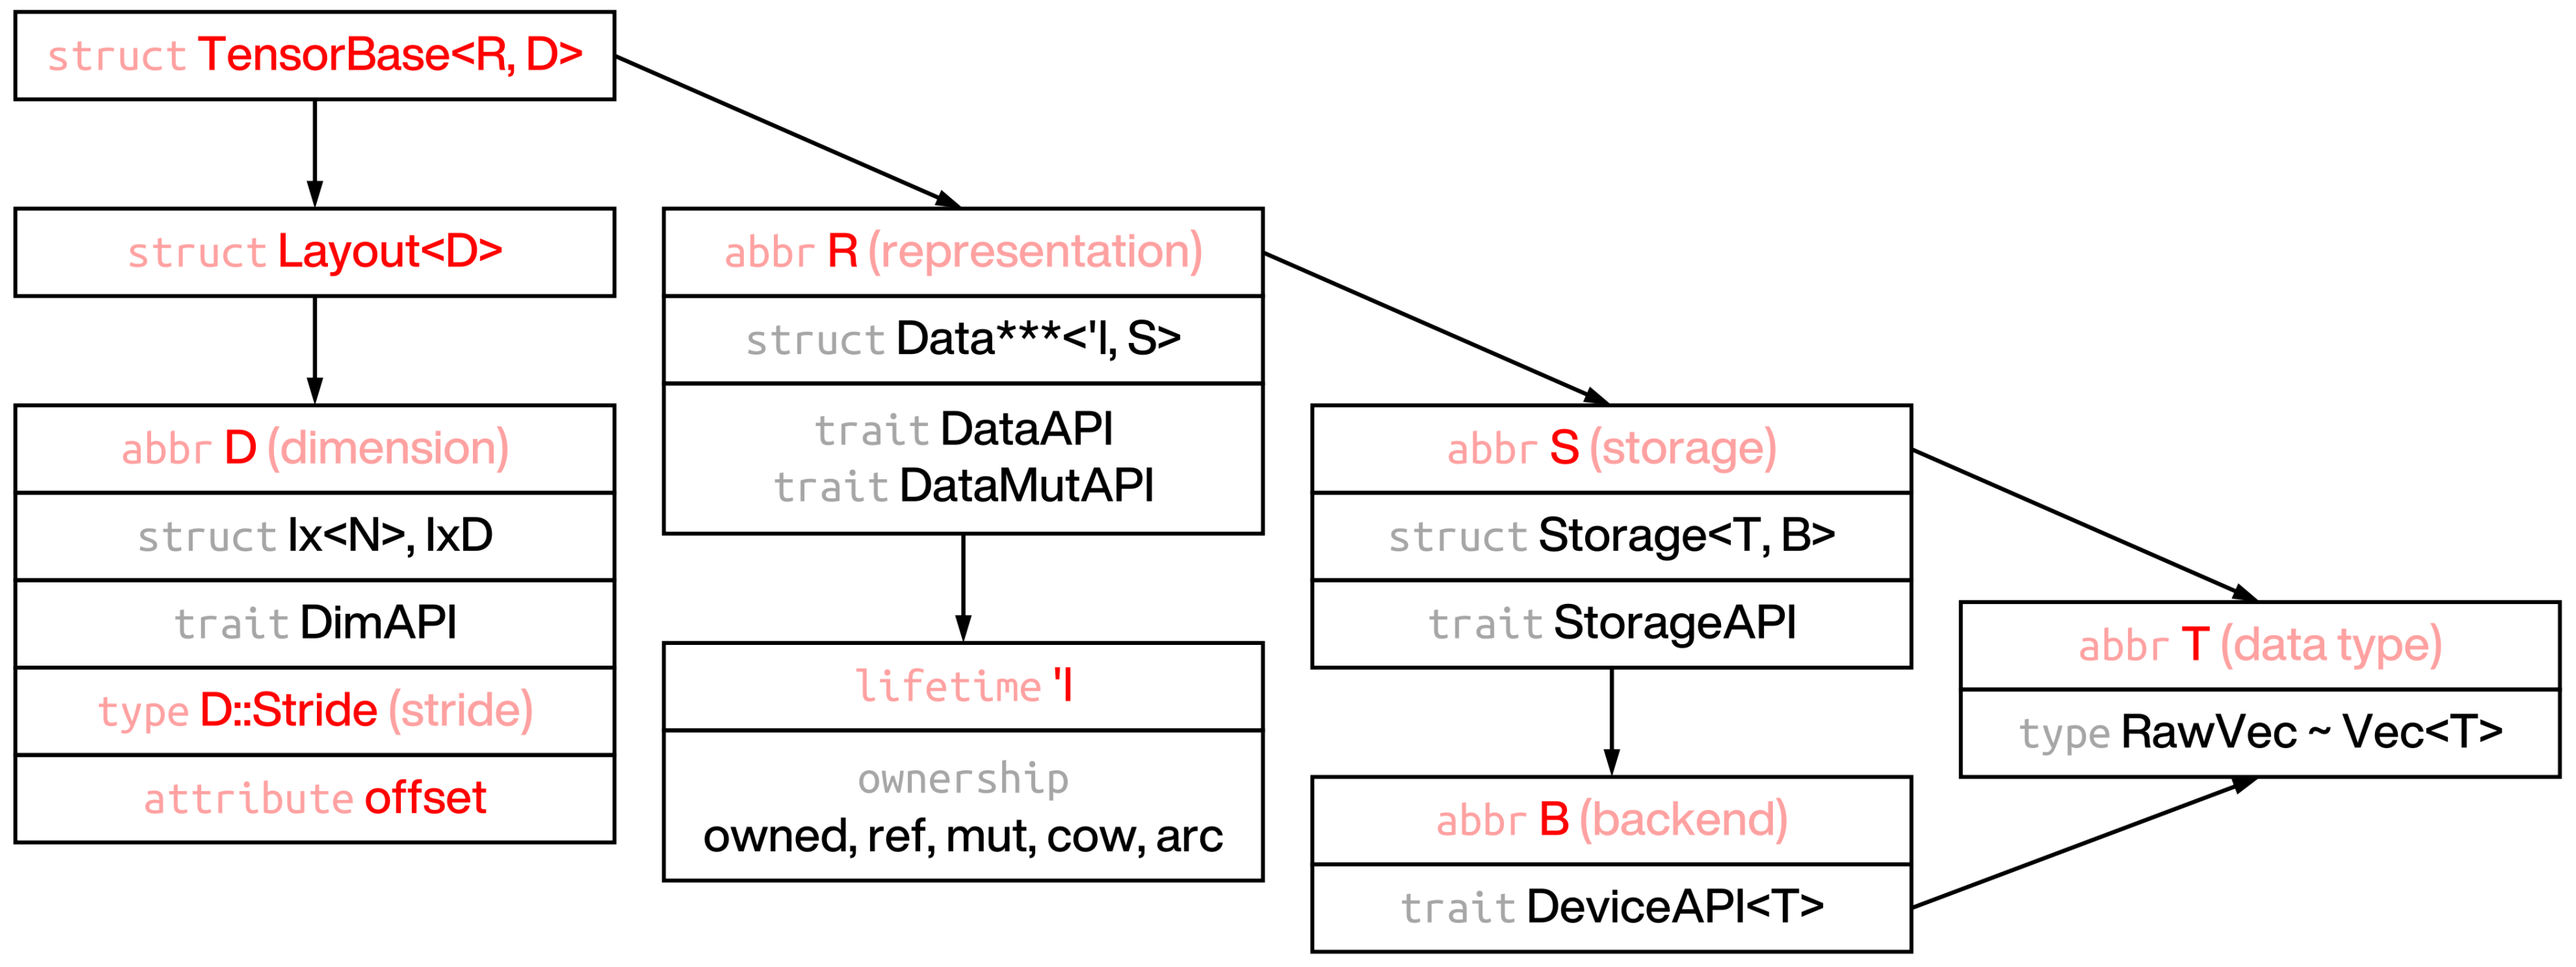
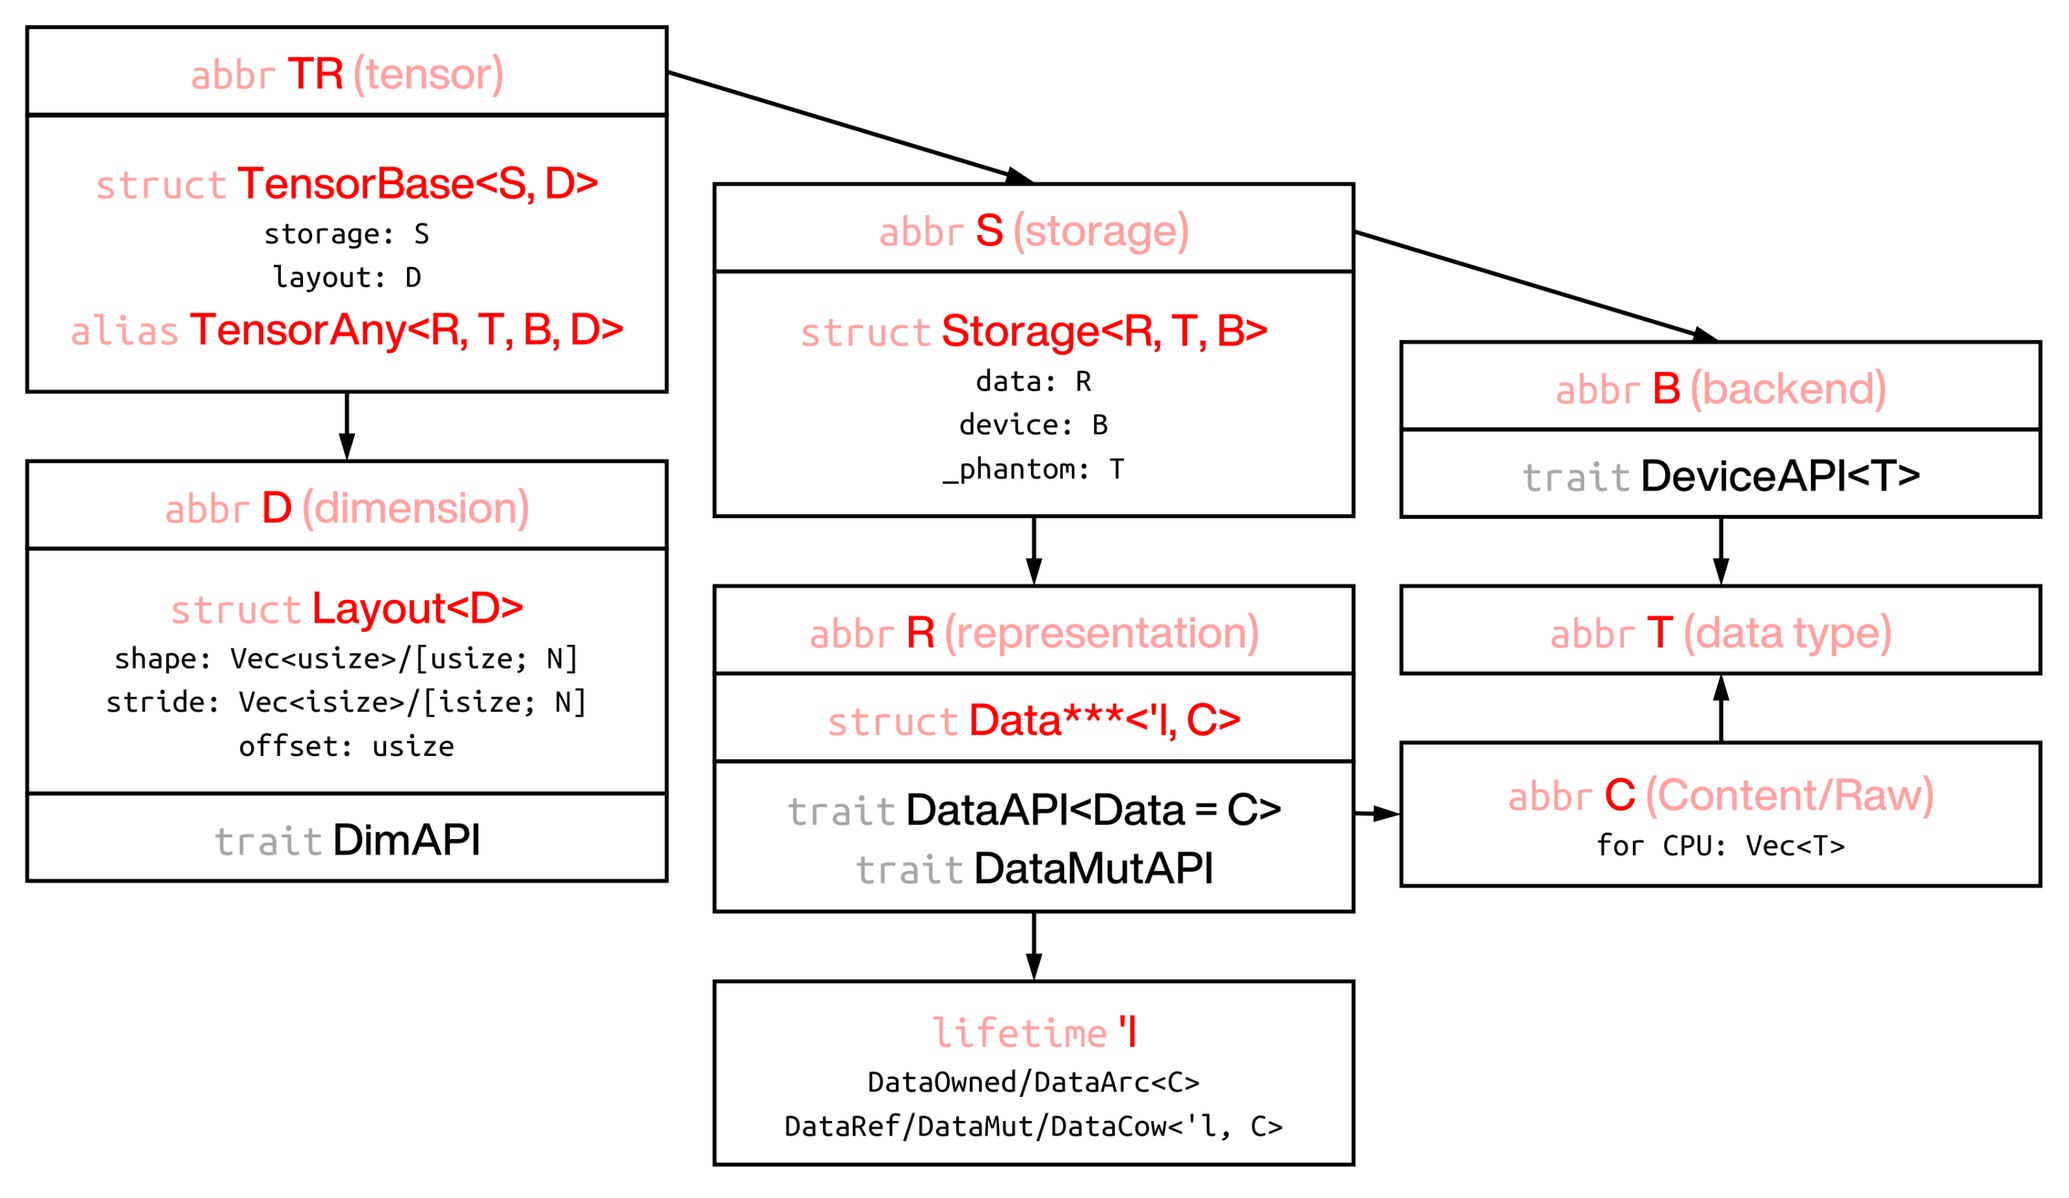
fix code after intensive refactor https://github.com/ajz34/rstsr/commit/9c29b40f8dea5ee687c3a849d9ee5436a5b776cd

diff --git a/listings/features-default/tests/tensor_creation.rs b/listings/features-default/tests/tensor_creation.rs
@@ -27,7 +27,7 @@ fn example_02() {
     // === Debug Tensor Print ===
     // [ 1 2 3 4 5]
     // DeviceFaer { base: DeviceCpuRayon { num_threads: 4 } }
-    // 1-Dim, contiguous: CcFf
+    // 1-Dim (dyn), contiguous: CcFf
     // shape: [5], stride: [1], offset: 0
     // Type: rstsr_core::tensorbase::TensorBase<rstsr_core::tensor::data::DataOwned<rstsr_core::storage::device::Storage<i32, rstsr_core::device_faer::device::DeviceFaer>>, [usize; 1]>
     // ANCHOR_END: example_02
@@ -87,13 +87,13 @@ fn example_05() {
     println!("{:?}", tensor);
 
     // check if pointer of vec and tensor's storage are the same
-    assert_eq!(vec.as_ptr(), tensor.storage().rawvec().as_ptr());
+    assert_eq!(vec.as_ptr(), tensor.storage().raw().as_ptr());
 
     // output:
     // === Debug Tensor Print ===
     // [ 1 2 3 4 5 6]
     // DeviceFaer { base: DeviceCpuRayon { num_threads: 0 } }
-    // 1-Dim, contiguous: CcFf
+    // 1-Dim (dyn), contiguous: CcFf
     // shape: [6], stride: [1], offset: 0
     // Type: rstsr_core::tensorbase::TensorBase<rstsr_core::tensor::data::DataRef<rstsr_core::storage::device::Storage<i32, rstsr_core::device_faer::device::DeviceFaer>>, [usize; 1]>
     // ANCHOR_END: example_05
@@ -156,14 +156,14 @@ fn example_linspace() {
 fn example_eye() {
     // ANCHOR: example_eye
     let device = DeviceFaer::new(4);
-    let tensor: Tensor<f64, _> = rt::eye((3, &device));
+    let tensor: Tensor<f64> = rt::eye((3, &device));
     println!("{:}", tensor);
     // output:
     // [[ 1 0 0]
     //  [ 0 1 0]
     //  [ 0 0 1]]
 
-    let tensor: Tensor<f64, _> = rt::eye((3, 4, -1));
+    let tensor: Tensor<f64> = rt::eye((3, 4, -1));
     println!("{:}", tensor);
     // output:
     // [[ 0 0 0 0]
@@ -194,7 +194,7 @@ fn example_diag() {
 fn example_zeros_01() {
     // ANCHOR: example_zeros_01
     // generate tensor with default device
-    let tensor: Tensor<f64, _> = rt::zeros([2, 2, 3]); // Tensor<f64, Ix3>
+    let tensor: Tensor<f64> = rt::zeros([2, 2, 3]); // Tensor<f64, Ix3>
     println!("{:}", tensor);
     // output:
     // [[[ 0 0 0]
@@ -206,7 +206,7 @@ fn example_zeros_01() {
     // generate tensor with custom device
     // note: the third type annotation refers to device type, hence is required if not default device
     // Tensor<f64, Ix2, DeviceCpuSerial>
-    let tensor: Tensor<f64, _, _> = rt::zeros(([3, 4], &DeviceCpuSerial));
+    let tensor: Tensor<f64, _> = rt::zeros(([3, 4], &DeviceCpuSerial));
     println!("{:}", tensor);
     // output:
     // [[ 0 0 0 0]
@@ -219,12 +219,12 @@ fn example_zeros_01() {
 fn example_zeros_02() {
     // ANCHOR: example_zeros_02
     // generate tensor with c-contiguous
-    let tensor: Tensor<f64, _> = rt::zeros([2, 2, 3].c());
+    let tensor: Tensor<f64> = rt::zeros([2, 2, 3].c());
     println!("shape: {:?}, stride: {:?}", tensor.shape(), tensor.stride());
     // output: shape: [2, 2, 3], stride: [6, 3, 1]
 
     // generate tensor with f-contiguous
-    let tensor: Tensor<f64, _> = rt::zeros([2, 2, 3].f());
+    let tensor: Tensor<f64> = rt::zeros([2, 2, 3].f());
     println!("shape: {:?}, stride: {:?}", tensor.shape(), tensor.stride());
     // output: shape: [2, 2, 3], stride: [1, 2, 4]
     // ANCHOR_END: example_zeros_02
@@ -234,7 +234,7 @@ fn example_zeros_02() {
 fn example_zeros_03() {
     // ANCHOR: example_zeros_03
     // generate 0-D tensor
-    let mut a: Tensor<f64, _> = rt::zeros([]);
+    let mut a: Tensor<f64> = rt::zeros([]);
     println!("{:}", a);
     // output: 0
 
@@ -254,7 +254,7 @@ fn example_zeros_03() {
 fn example_empty() {
     // ANCHOR: example_empty
     // generate empty tensor with default device
-    let tensor: Tensor<i32, _> = unsafe { rt::empty([10, 10]) };
+    let tensor: Tensor<i32> = unsafe { rt::empty([10, 10]) };
     println!("{:?}", tensor);
     // ANCHOR_END: example_empty
 }

diff --git a/listings/features-default/tests/structure_and_ownership.rs b/listings/features-default/tests/structure_and_ownership.rs
@@ -5,13 +5,13 @@ fn example_tensor_ownership() {
     // ANCHOR: tensor_ownership
     // generate 1-D owned tensor
     let tensor = rt::arange(12);
-    let ptr_1 = tensor.rawvec().as_ptr();
+    let ptr_1 = tensor.raw().as_ptr();
 
     // this will give owned tensor with 2-D shape
     // since previous tensor is contiguous, this will not copy memory
     let mut tensor = tensor.into_shape([3, 4]);
     tensor += 1; // inplace operation
-    let ptr_2 = tensor.rawvec().as_ptr();
+    let ptr_2 = tensor.raw().as_ptr();
 
     // until now, memory has not been copied
     assert_eq!(ptr_1, ptr_2);
@@ -21,7 +21,7 @@ fn example_tensor_ownership() {
 
     // from view to owned tensor
     let tensor = tensor_view.into_owned();
-    let ptr_3 = tensor.rawvec().as_ptr();
+    let ptr_3 = tensor.raw().as_ptr();
 
     // now memory has been copied
     assert_ne!(ptr_2, ptr_3);
@@ -38,7 +38,7 @@ fn example_to_vec() {
     // matrix multiplication (gemv 2-D x 1-D case)
     let c = a % b;
     println!("{:?}", c);
-    let ptr_1 = c.rawvec().as_ptr();
+    let ptr_1 = c.raw().as_ptr();
 
     // convert to Vec<f64>
     let c = c.into_vec();
@@ -82,7 +82,7 @@ fn example_dim_conversion() {
     // fixed dimension
     let a = rt::arange(12).into_shape([3, 4]);
     println!("{:?}", a);
-    // output: 2-Dim, contiguous: Cc
+    // output: 2-Dim (dyn), contiguous: Cc
 
     // convert to dynamic dimension
     let a = a.into_dim::<IxD>(); // or a.into_dyn();

diff --git a/listings/features-default/tests/arithmetics_and_broadcasting.rs b/listings/features-default/tests/arithmetics_and_broadcasting.rs
@@ -191,7 +191,7 @@ fn example_memory_aspects() {
     // view clone is cheap, given tensor is large
     let a_view = a.view();
     let b_view = b.view();
-    let e = a_view.clone() * b_view.clone();
+    let e = a_view * b_view;
     // ANCHOR_END: memory_aspects_01
     println!("{:}", c);
     println!("{:}", d);
@@ -200,10 +200,10 @@ fn example_memory_aspects() {
     // ANCHOR: memory_aspects_02
     let a = rt::arange(5.0);
     let b = rt::arange(5.0) + 1.0;
-    let ptr_a = a.rawvec().as_ptr();
+    let ptr_a = a.raw().as_ptr();
     // if sure that `a` is not used anymore, pass `a` by value instead of reference
     let c = a + &b;
-    let ptr_c = c.rawvec().as_ptr();
+    let ptr_c = c.raw().as_ptr();
     // raw data of `a` is reused in `c`
     // similar to `a += &b; let c = a;`
     assert_eq!(ptr_a, ptr_c);

diff --git a/listings/features-default/tests/indexing.rs b/listings/features-default/tests/indexing.rs
@@ -191,7 +191,7 @@ fn example_ellipsis() {
 #[test]
 fn example_mixed_indexing() {
     // ANCHOR: example_mixed_indexing
-    let a: Tensor<f64, _> = rt::zeros([6, 7, 5, 9, 8]);
+    let a: Tensor<f64> = rt::zeros([6, 7, 5, 9, 8]);
 
     // mixed indexing
     let b = a.slice((slice!(-2, 1, -1), None, None, Ellipsis, 1, ..-2));

diff --git a/listings/features-default/tests/welcome.rs b/listings/features-default/tests/welcome.rs
@@ -14,7 +14,7 @@ fn welcome() {
     // print layout of the result
     println!("{:?}", c.layout());
     // output:
-    // 3-Dim, contiguous: Cc
+    // 3-Dim (dyn), contiguous: Cc
     // shape: [2, 4, 2], stride: [8, 2, 1], offset: 0
 
     // print the result

diff --git a/src/fundamentals/02-structure_and_ownership.md b/src/fundamentals/02-structure_and_ownership.md
@@ -11,33 +11,41 @@ In this section, we will try to show how RSTSR constructs tensor struct and diff
 ## 1. Tensor Structure
 
 RSTSR tensor learns a lot from rust crate `ndarray`.
-Structure and usage of RSTSR's `TensorBase` is similar to `ndarray`'s `ArrayBase`; however, they are different in some key points.
+Structure and usage of RSTSR's `TensorBase` is similar to `ndarray`'s `ArrayBase`; however, they are different in many key points.
 
 ![rstsr-basic-structure](../assets/rstsr-basic-structure.png)
 
-- Tensor is composed by data (how data is stored in memory bulk) and layout (how tensor is represented).
-- Layout is composed by shape (shape of tensor), stride (how each value is accessed from memory bulk), and offset (where the tensor starts)[^1].
+- Tensor is composed by `storage` (how data is stored in memory bulk) and `layout` (how tensor is represented).
+- Layout is composed by `shape` (shape of tensor), `stride` (how each value is accessed from memory bulk), and `offset` (where the tensor starts)[^1].
+- Storage is composed by `data` (data with lifetime) and `device` (computation and storage backend)[^2].
 - Data is combination of the actual memory storage with the lifetime annotation to it.
-  Currently, 5 ownership types are supported. The first two (owned and referenced) are the most important[^2].
-    - Owned (`Tensor<T, D, B>`)
-    - Referenced (`TensorView<'l, T, D, B>` or `TensorRef<'l, T, D, B>`)
-    - Mutablly referenced (`TensorViewMut<'l, T, D, B>` or `TensorMut<'l, T, D, B>`)
-    - Clone on write (not mutable enum of owned and referenced, `TensorCow<'l, T, D, B>`)
-    - Atomic reference counted (safe in threading, `TensorArc<T, D, B>`)
-- Storage is composed by raw memory (type `RawVec`) and backend (device)[^3]
-- The actual memory bulk will be stored as `Vec<T>` in CPU, and this can be configured by trait type `RawVec`[^4].
-      
+  Currently, 5 ownership types are supported. The first two (owned and referenced) are the most important[^3].
+    - Owned (`Tensor<T, B, D>`)
+    - Referenced (`TensorView<'l, T, B, D>` or `TensorRef<'l, T, B, D>`)
+    - Mutablly referenced (`TensorViewMut<'l, T, B, D>` or `TensorMut<'l, T, B, D>`)
+    - Clone on write (not mutable enum of owned and referenced, `TensorCow<'l, T, B, D>`)
+    - Atomic reference counted (safe in threading, `TensorArc<T, B, D>`)
+- The actual memory bulk will be stored as `Vec<T>` in CPU, and this can be configured by trait type `DeviceRawAPI<T>::Raw`[^4].
+
+Default generic types is applied to some structs or alias. For example, if `DeviceFaer` is the default device (which is enabled by crate feature `faer_as_default`), then
+```rust
+    let a: Tensor<f64> = rt::zeros([3, 4]);
+    // this refers to Tensor<f64, DeviceFaer, IxD>
+    // default device: DeviceFaer (rayon parallel with Faer matmul)
+    // default dimensionality: IxD (dynamic dimension)
+```
+
 [^1]: RSTSR is different to `ndarray` in struct construction.
       While `ndarray` stores shape and stride directly in `ArrayBase`, in RSTSR shape, stride and offset are stored in `Layout<D>`.
       Layout of tensor is meta data of tensor, and it can be detached from data of tensor.
 
-[^2]: In RSTSR, data is stored as variable or its reference, in safe rust.
-      This is different to `ndarray`, which stores pointer (with offset) and memory data (if owned) or phantom lifetime annotation (if referenced).
-
-[^3]: This distinguishes RSTSR and `ndarray`.
+[^2]: This distinguishes RSTSR and `ndarray`.
       We hope that RSTSR will become multi-backend framework in future.
       Currently, we have implemented serial CPU device (`DeviceCpuSerial`) and parallel CPU device with Faer matmul (`DeviceFaer`),
       showing the possiblity of more demanding heterogeneous programming within framework of RSTSR.
+
+[^3]: In RSTSR, data is stored as variable or its reference, in safe rust.
+      This is different to `ndarray`, which stores pointer (with offset) and memory data (if owned) or phantom lifetime annotation (if referenced).
 
 [^4]: This distinguishes RSTSR and `candle`.
       RSTSR allows external implementation of backends, hopefully allowing easy extending to other kind of devices, similar to `burn`.
@@ -50,25 +58,25 @@ Structure and usage of RSTSR's `TensorBase` is similar to `ndarray`'s `ArrayBase
 
 Different ownerships can be converted to each other. However, some conversion functions may have some costs (explicit memory copy).
 
-- `view` gives `TensorView<'l, T, D, B>`.
+- `view` gives `TensorView<'l, T, B, D>`.
     - This function will always not perform memory copy (of tensor data) in any cases. For this part, it is virtually zero-cost.
     - It will still perform clone of tensor layout, so still some overhead occurs. For large tensor, it is cheap.
-- `view_mut` gives `TensorMut<'l, T, D, B>`.
+- `view_mut` gives `TensorMut<'l, T, B, D>`.
     - In rust, either many const references or only one mutable reference is allowed.
       This is also true for `TensorView` as const reference and `TensorMut` as mutable reference.
-- `into_owned_keep_layout` gives `Tensor<T, D, B>`.
+- `into_owned_keep_layout` gives `Tensor<T, B, D>`.
     - For `Tensor`, this is free of memory copy;
     - For `TensorView` and `TensorMut`, this requires explicit memory copy. Note that it is usually more proper to use `into_owned` in this case.
     - For `TensorArc`, this is free of memory copy, but please note that it may panic when strong reference count is not exactly one.
       You may use `tensor.data().strong_count()` to check strong reference count.
     - For `TensorCow`, if it is owned (`DataCow::Owned`), then it is free of memory copy; if it is reference (`DataCow::Ref`), then it requires explicit memory copy.
-- `into_owned` also gives `Tensor<T, D, B>`.
+- `into_owned` also gives `Tensor<T, B, D>`.
     - This function is different to `into_owned_keep_layout`, in that `into_owned` only not copy memory when layout of tensor covers all memory (size of memory bulk is the same to size of tensor layout). Calling `into_owned` to any non-trivial slicing of tensor will incur memory copy.
     - Also note that, if you just want to shrink the memory to a slice of tensor, using `into_owned` is more appropriate.
     - For `TensorView` and `TensorMut`, using `into_owned` will copy less memory `into_owned_keep_layout`. So `into_owned` is preferrable for tensor views.
-- `into_cow` gives `TensorCow<'l, T, D, B>`.
+- `into_cow` gives `TensorCow<'l, T, B, D>`.
     - This function does not have any cost.
-- `into_shared_keep_layout` and `into_shared` gives `TensorArc<'l, T, D, B>`. This is similar to `into_owned_keep_layout` and `into_owned`.
+- `into_shared_keep_layout` and `into_shared` gives `TensorArc<'l, T, B, D>`. This is similar to `into_owned_keep_layout` and `into_owned`.
 
 An example for tensor ownership conversion follows:
 
@@ -88,8 +96,7 @@ Converting between Tensor and `Vec<T>` or `&[T]` can be useful if
 
 There are some useful functions to perform Tensor to `Vec<T>`:
 - `to_vec()`: copy 1-D tensor to vector, requires memory copy;
-- `into_vec()`: move 1-D tensor to vector if memory is contiguous; otherwise copy 1-D tensor to vector;
-- `into_rawvec()`: move raw tensor to vector; this does not assume output memory bulk layout is the same to tensor layout.
+- `into_vec()`: move 1-D tensor to vector if memory is contiguous; otherwise copy 1-D tensor to vector.
 
 We do not provide functions that give `&[T]` or `&mut [T]`.
 However, we provide function `as_ptr()` and `as_mut_ptr()`, giving the pointer of the first element.
@@ -142,6 +149,7 @@ That is to say, not only dimension $n$ is fixed, but also shape and strides are 
 For small vectors or matrices, fixing shape and strides can usually be compiled to much more efficient assembly code.
 For large vectors or matrices, that will depends on types of arithmetic computations;
 compiler with `-O3` is not omniscient, and in most cases, fixing shape and strides will not benefit more than manual cache, pipeline and multi-threading optimization.
+Writing a function with more efficiency is more preferrable than telling compiler the dimensionality of tensor.
 
 RSTSR, by design and motivation, is for scientific computation for medium or large tensors.
 By concerning benefits and difficulties, we choose not introducing fixed shape and strides.
